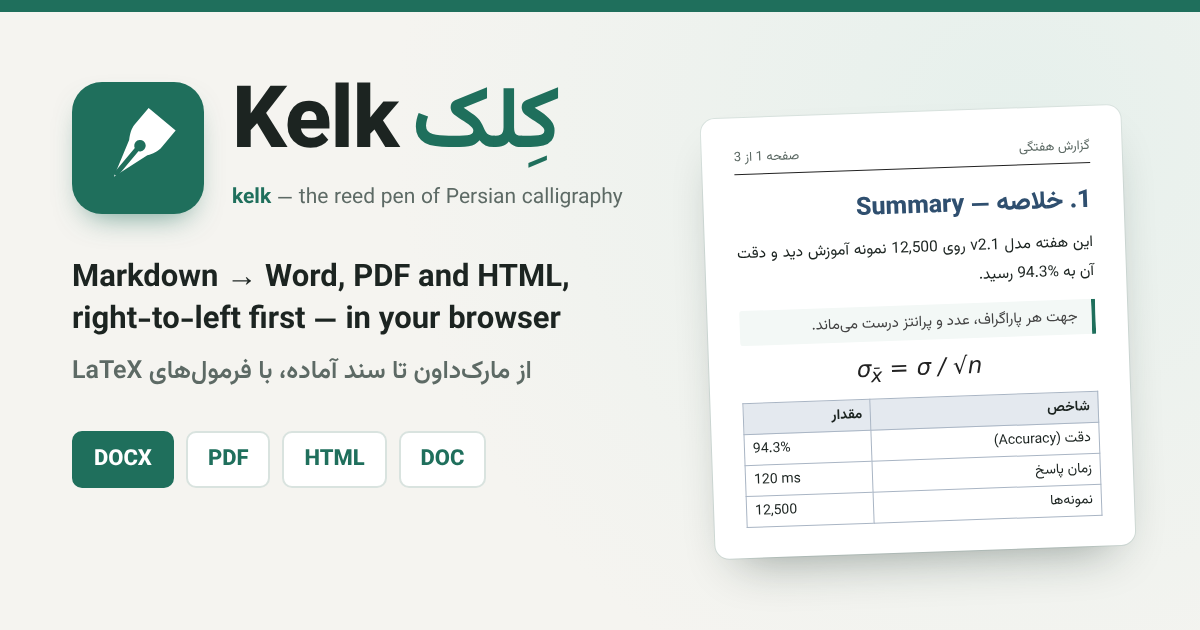
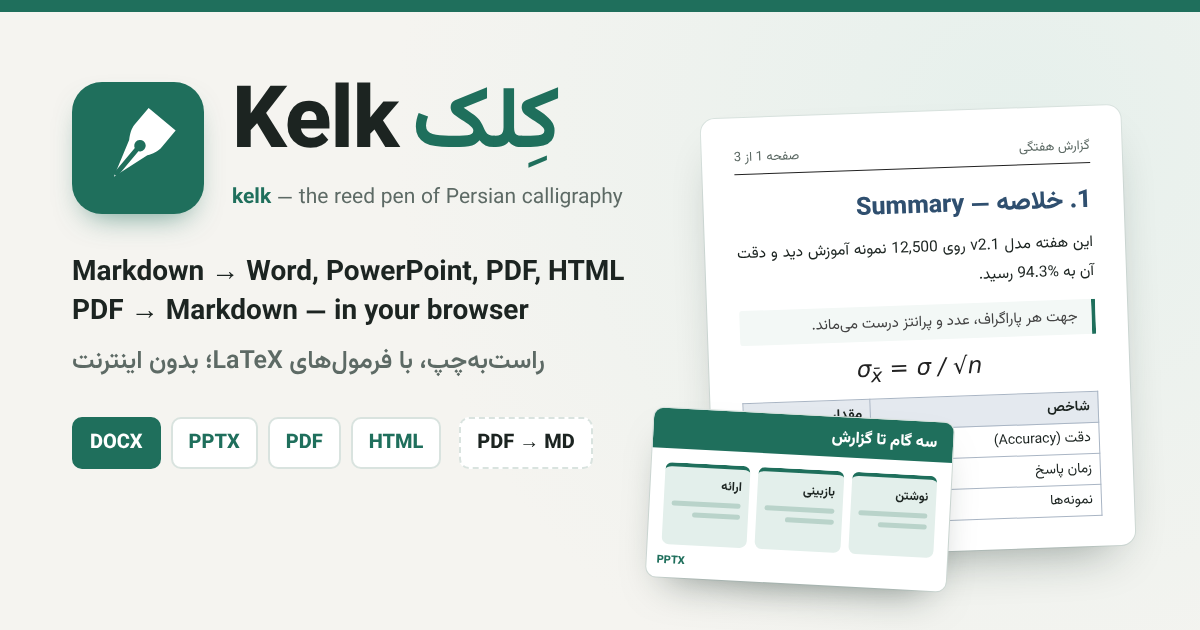
2.1: slide prompt (plan first, the form of each slide), og-image with PowerPoint and PDF import, startup budget

Changed region(s): [[0.5242, 0.6333, 0.8017, 0.9651], [0.0617, 0.3921, 0.5242, 0.6032], [0.0617, 0.6635, 0.4933, 0.7841]]

diff --git a/scripts/slides.js b/scripts/slides.js
@@ -346,25 +346,40 @@
 
         /** The slide convention as a prompt for AI models (Settings → Slides → copy): short, English, plain text. */
         prompt: [
-            'Write the presentation as GitHub-Flavored Markdown that follows these rules. Output only the Markdown, nothing before or after it.',
+            'Write the presentation as GitHub-Flavored Markdown that follows these rules. First plan the deck silently: one idea per slide and the form of each slide. Then output only the Markdown, nothing before or after it.',
             '',
             'Structure',
-            '- Optional front matter at the very top: title, footer, dir (rtl or ltr), theme, presenter, tagline (a short brand line), classification (e.g. Internal), contact (on the closing slide), logo (an image URL), author, date. Themes: modern-emerald, scholarly-blue, corporate-blue, tech-dark, tech-warm, minimal-mono, ocean-teal, sunset-coral, forest-green, royal-purple. Leave theme, bullet and decoration out to let the user choose.',
+            '- Optional front matter at the very top: title, footer, dir (rtl or ltr), theme, presenter, tagline (a short brand line), classification (e.g. Internal), contact (on the closing slide), logo (an image URL), author, date. Themes: modern-emerald, scholarly-blue, corporate-blue, tech-dark, tech-warm, minimal-mono, ocean-teal, sunset-coral, forest-green, royal-purple. Leave theme out to let the user choose.',
             '- The first # heading is the title slide; the paragraphs under it are its subtitle lines, and an image there (![Logo](url)) is shown as a logo. Each later # heading starts a section (a PowerPoint section too); the last # heading closes the deck.',
             '- Each ## heading starts a new slide and is its title (at most about 8 words). Do not put --- between slides.',
             '',
+            'Choosing the form (decide for each slide from the shape of its content; the Markdown that produces each form follows the arrow)',
+            '- Several items compared on the same two or more attributes (options, tools, before/after, pros/cons, roles and duties) → a table. Never split such a comparison into cards or bullets.',
+            '- Numbers across categories or over time → a chart (<!-- chart: TYPE --> before a table); two to four headline figures → <!-- layout: stats -->.',
+            '- Order or flow → a numbered list of labeled items with no sub-items (steps), or <!-- layout: process --> or <!-- layout: timeline -->.',
+            '- Two to six parallel ideas, each a label and one line → cards: a bulleted list of labeled items with <!-- layout: cards --> above it, or with sub-items or icons on every item and the list alone on the slide. Cards are the right form for such ideas; do not turn them into a plain list.',
+            '- Two or three parallel blocks → columns: two or three ### headings.',
+            '- Use a diagram only when that relation is really in the content: hierarchy → hierarchy; a repeating loop → cycle; levels or narrowing stages → pyramid or funnel; two dimensions in four cells → matrix; overlap of two or three things → venn.',
+            '- A quoted sentence → a quote; a command or code → a code block; one key message → statement.',
+            '- Anything else → a plain bullet list.',
+            '- Prefer variety, but never change a form only to vary it. Cards usually suit about a quarter to a third of the slides. A deck that compares or quantifies anything should include at least one table or chart, but never invent data to fill one.',
+            '',
             'Content of a slide',
-            '- Bullet lists: at most 6 items and 2 levels. Numbered lists for order. One table of at most 8 rows. One image as ![description](url), or ![description](placeholder) when there is no picture yet.',
-            '- A label and its text: "- **Label** — detail". A Lucide icon name may come first ("- :rocket: **Label** — detail"), or an emoji ("- 🚀 **Label** — detail").',
+            '- Table: a header row, 2 to 5 columns, at most 8 rows, cells of a few words; one table per slide, with at most one short sentence before it. Example:',
+            '  | Option | Cost | Speed | Risk |',
+            '  |---|---|---|---|',
+            '  | A | Low | Slow | Low |',
+            '  | B | High | Fast | Medium |',
+            '- Bullet lists: at most 6 items and 2 levels. Numbered lists for order. One image as ![description](url), or ![description](placeholder) when there is no picture yet.',
+            '- A label and its text: "- **Label** — detail". A Lucide icon name or an emoji may come first ("- :rocket: **Label** — detail"). Icons on every item of a list that is alone on the slide make it cards; otherwise icon items become icon rows. Use icons only when you want one of these.',
             '- A quote is > text, then a line "> — Name, source". Do not nest quotes. Callouts are GitHub alerts: > [!NOTE], [!TIP], [!IMPORTANT], [!WARNING] or [!CAUTION]; at most one per slide.',
             '- Fenced code with a language, at most 12 lines, never inside a list item and without fences nested inside it. Formulas in LaTeX: $$ ... $$ on their own line, or $ ... $ inside a sentence (both become PowerPoint equations).',
             '- Keep the text short and in the slide\'s language; English terms may follow in parentheses, or after a dash ("فارسی — English"). Use Latin digits.',
             '',
-            'Layouts (they follow the content; a comment right under the ## heading chooses one)',
-            '- Automatic: a numbered list of labeled items is steps; labeled items with sub-items or icons are cards; two or three ### headings are columns; a picture or chart beside a list; one short sentence alone is a statement.',
-            '- <!-- layout: NAME --> with NAME one of: cards, stats, timeline, agenda, process, cycle, pyramid, funnel, hierarchy, matrix, venn, columns, statement. statement holds one short paragraph and nothing else; a chart or table goes on a slide of its own.',
-            '- timeline: labeled items whose labels are dates; add horizontal or vertical, and highlight=N for the key one. stats: labels that hold a number become big tiles. agenda with no list lists the sections. hierarchy reads a nested list (up to 4 levels). venn: two or three labeled items, then a paragraph with what they share. matrix: four labeled items. process may add vertical.',
-            '- A native chart: <!-- chart: TYPE --> right before a table, TYPE one of column, bar, line, area, pie, doughnut, radar; add stacked, percent or labels, and title="...". The first column holds the categories, the other columns numbers.',
+            'Layout and chart details',
+            '- A comment right under the ## heading forces a layout: <!-- layout: NAME --> with NAME one of: cards, stats, timeline, agenda, process, cycle, pyramid, funnel, hierarchy, matrix, venn, columns, statement.',
+            '- statement holds one short paragraph and nothing else. timeline: labeled items whose labels are dates; add horizontal or vertical, and highlight=N for the key one. stats: labels that hold a number become big tiles. agenda with no list lists the sections. hierarchy reads a nested list (up to 4 levels). venn: two or three labeled items, then a paragraph with what they share. matrix: four labeled items. process may add vertical.',
+            '- Chart TYPE is one of column, bar, line, area, pie, doughnut, radar; add stacked, percent or labels, and title="...". The first column holds the categories, the other columns numbers. A chart may have a short list or one sentence beside it; never put a layout comment on a chart slide.',
             '',
             'Speaker notes',
             '- End every slide with an HTML comment <!-- ... --> holding what the speaker says, in full sentences. Explanations go into the notes, not onto the slide. No other HTML.'

diff --git a/tools/og-image.html b/tools/og-image.html
@@ -41,12 +41,22 @@
   h1 .fa { color: var(--accent); margin-left: 14px; font-weight: 700; }
   .meaning { margin-top: 12px; font-size: 21px; color: var(--muted); }
   .meaning b { color: var(--accent); font-weight: 700; }
-  .tag { margin-top: 44px; font-size: 31px; font-weight: 700; line-height: 1.35; }
+  .tag { margin-top: 40px; font-size: 28px; font-weight: 700; line-height: 1.4; white-space: nowrap; }
   .tag-fa { margin-top: 10px; font-size: 25px; font-weight: 600; color: var(--muted); direction: rtl; text-align: left; }
-  .chips { margin-top: 40px; display: flex; gap: 12px; }
-  .chip { padding: 9px 20px; border-radius: 10px; font-size: 22px; font-weight: 800; color: var(--accent);
+  .chips { margin-top: 36px; display: flex; gap: 10px; align-items: center; }
+  .chip { padding: 8px 16px; border-radius: 10px; font-size: 20px; white-space: nowrap; font-weight: 800; color: var(--accent);
           background: var(--paper); border: 2px solid var(--line); }
   .chip.on { background: var(--accent); color: #fff; border-color: var(--accent); }
+  .chip.back { margin-left: 8px; border-style: dashed; color: var(--ink); }
+  /* a slide of a deck (the PowerPoint output), in front of the page */
+  .slide { position: absolute; right: 250px; top: 415px; width: 300px; height: 169px; background: var(--paper); border-radius: 10px;
+           box-shadow: 0 20px 40px -20px rgba(20, 40, 34, .5), 0 0 0 1px var(--line); transform: rotate(3deg); overflow: hidden; direction: rtl; }
+  .slide .bar { height: 40px; background: var(--accent); color: #fff; font-size: 16px; font-weight: 800; padding: 9px 16px; }
+  .slide .cards { display: grid; grid-template-columns: repeat(3, 1fr); gap: 8px; padding: 14px 14px 0; }
+  .slide .card { height: 82px; border-radius: 7px; background: var(--accent-soft); border-top: 4px solid var(--accent); padding: 8px; font-size: 12.5px; font-weight: 700; color: var(--ink); }
+  .slide .card span { display: block; margin-top: 6px; height: 5px; border-radius: 3px; background: #b9d3ca; }
+  .slide .card span + span { width: 70%; }
+  .slide .tag-pptx { position: absolute; left: 10px; bottom: 8px; font: 800 11px 'Vazirmatn'; color: var(--accent); direction: ltr; }
 
   /* right: a page of a finished document — right to left, a formula, a table */
   .page { position: absolute; right: 72px; top: 112px; width: 420px; background: var(--paper); border-radius: 14px;
@@ -82,9 +92,9 @@
         <div class="meaning"><b>kelk</b> — the reed pen of Persian calligraphy</div>
       </div>
     </div>
-    <div class="tag">Markdown → Word, PDF and HTML,<br>right-to-left first — in your browser</div>
-    <div class="tag-fa">از مارکداون تا سند آماده، با فرمولهای LaTeX</div>
-    <div class="chips"><span class="chip on">DOCX</span><span class="chip">PDF</span><span class="chip">HTML</span><span class="chip">DOC</span></div>
+    <div class="tag">Markdown → Word, PowerPoint, PDF, HTML<br>PDF → Markdown — in your browser</div>
+    <div class="tag-fa">راستبهچپ، با فرمولهای LaTeX؛ بدون اینترنت</div>
+    <div class="chips"><span class="chip on">DOCX</span><span class="chip">PPTX</span><span class="chip">PDF</span><span class="chip">HTML</span><span class="chip back">PDF → MD</span></div>
   </div>
 
   <div class="page" aria-hidden="true">
@@ -99,6 +109,15 @@
       <tr><td>زمان پاسخ</td><td class="n">120 ms</td></tr>
       <tr><td>نمونهها</td><td class="n">12,500</td></tr>
     </table>
+  </div>
+  <div class="slide" aria-hidden="true">
+    <div class="bar">سه گام تا گزارش</div>
+    <div class="cards">
+      <div class="card">نوشتن<span></span><span></span></div>
+      <div class="card">بازبینی<span></span><span></span></div>
+      <div class="card">ارائه<span></span><span></span></div>
+    </div>
+    <div class="tag-pptx">PPTX</div>
   </div>
 </body>
 </html>

diff --git a/index.html b/index.html
@@ -9,7 +9,7 @@
     <meta name="viewport" content="width=device-width, initial-scale=1">
     <title>Kelk — Markdown to Word, PowerPoint, PDF and HTML and back, right-to-left first</title>
     <meta name="description" content="Kelk: convert Markdown (GFM) to Word DOCX, Word DOC (MHTML), PowerPoint PPTX slides, PDF and standalone HTML — and Word, HTML and PDF back to Markdown — entirely client-side in your browser. Right-to-left first (Persian, Arabic, Hebrew, Urdu) and every left-to-right language; LaTeX formulas; offline, no upload, open source.">
-    <meta name="keywords" content="markdown to docx, markdown to pptx, markdown to powerpoint, markdown slides, markdown to pdf, markdown to word, markdown to html, docx to markdown, LaTeX, MathJax, Word equations, GFM, RTL, bidi, Persian, Farsi, Arabic, Hebrew, Urdu, client-side, offline">
+    <meta name="keywords" content="markdown to docx, markdown to pptx, markdown to powerpoint, markdown slides, markdown to pdf, markdown to word, markdown to html, docx to markdown, pdf to markdown, LaTeX, MathJax, Word equations, GFM, RTL, bidi, Persian, Farsi, Arabic, Hebrew, Urdu, client-side, offline">
     <meta name="author" content="mhn.com@gmail.com">
     <meta name="contributor" content="Anthropic Claude Opus 5.5">
     <meta name="theme-color" content="#1f6f5c">
